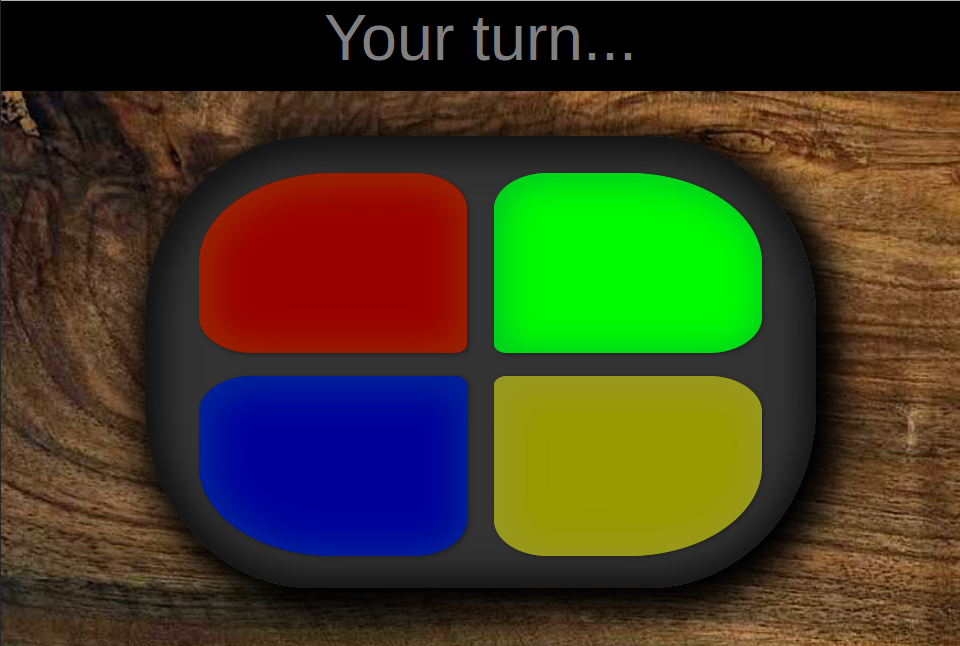
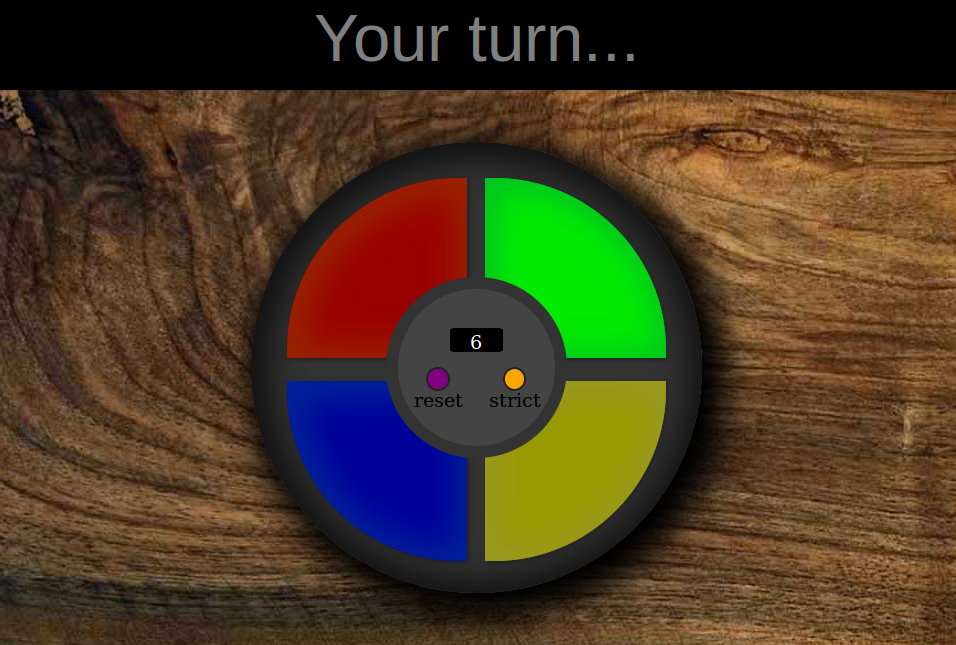
removed melanzana assets. updated image and description for simon. reordered portfolio projects to put the prettiest at the top.

diff --git a/index.html b/index.html
@@ -63,6 +63,34 @@
 
 		<div class='row'>
 			<div class='col-xs-8 col-xs-offset-2 project'>
+				<a href='http://brian-stovall.github.io/weather/' class='thumbnail'>
+					<img src='assets/weather.png'>
+				</a>
+					<div class='caption'>
+						<h3>What's Up? Weather</h3>
+						<p>This program uses HTML5 geolocation and the Open Weather API to display
+							 the user's local weather. It selects a background image based on
+							 the kind of weather the user is experiencing.</p>
+					</div>
+			</div>
+		</div>
+
+		<div class='row'>
+			<div class='col-xs-8 col-xs-offset-2 project'>
+				<a href='http://brian-stovall.github.io/web_simon/' class='thumbnail'>
+					<img src='assets/simon.png'>
+				</a>
+					<div class='caption'>
+						<h3>Simon</h3>
+						<p>A webpage rendition of the 'Simon' game, with a lot of animation
+						and user interaction. This is one of my most 'stateful' webpages -
+					  great practice for keeping things clean via function composition.</p>
+				  </div>
+			</div>
+		</div>
+
+		<div class='row'>
+			<div class='col-xs-8 col-xs-offset-2 project'>
 				<a href='http://brian-stovall.github.io/maze_explorer/' class='thumbnail'>
 					<img src='assets/mazeExplore.png'>
 				</a>
@@ -74,20 +102,6 @@
 							 on what gear they decide to bring along. Use vim or arrow keys to 
 							 explore.</p>
 				  </div>
-			</div>
-		</div>
-
-		<div class='row'>
-			<div class='col-xs-8 col-xs-offset-2 project'>
-				<a href='http://brian-stovall.github.io/weather/' class='thumbnail'>
-					<img src='assets/weather.png'>
-				</a>
-					<div class='caption'>
-						<h3>What's Up? Weather</h3>
-						<p>This program uses HTML5 geolocation and the Open Weather API to display
-							 the user's local weather. It selects a background image based on
-							 the kind of weather the user is experiencing.</p>
-					</div>
 			</div>
 		</div>
 
@@ -107,19 +121,6 @@
 			</div>
 		</div>
 
-		<div class='row'>
-			<div class='col-xs-8 col-xs-offset-2 project'>
-				<a href='http://brian-stovall.github.io/web_simon/' class='thumbnail'>
-					<img src='assets/simon.png'>
-				</a>
-					<div class='caption'>
-						<h3>Simon</h3>
-						<p>A webpage rendition of the 'Simon' game. This was early practice in shaping divs, 
-							 controlling state in a webpage, and handling events, sound, and animation in the
-							 browser.</p>
-				  </div>
-			</div>
-		</div>
 	</div>
 	<!-- end portfolio section  -->
 
